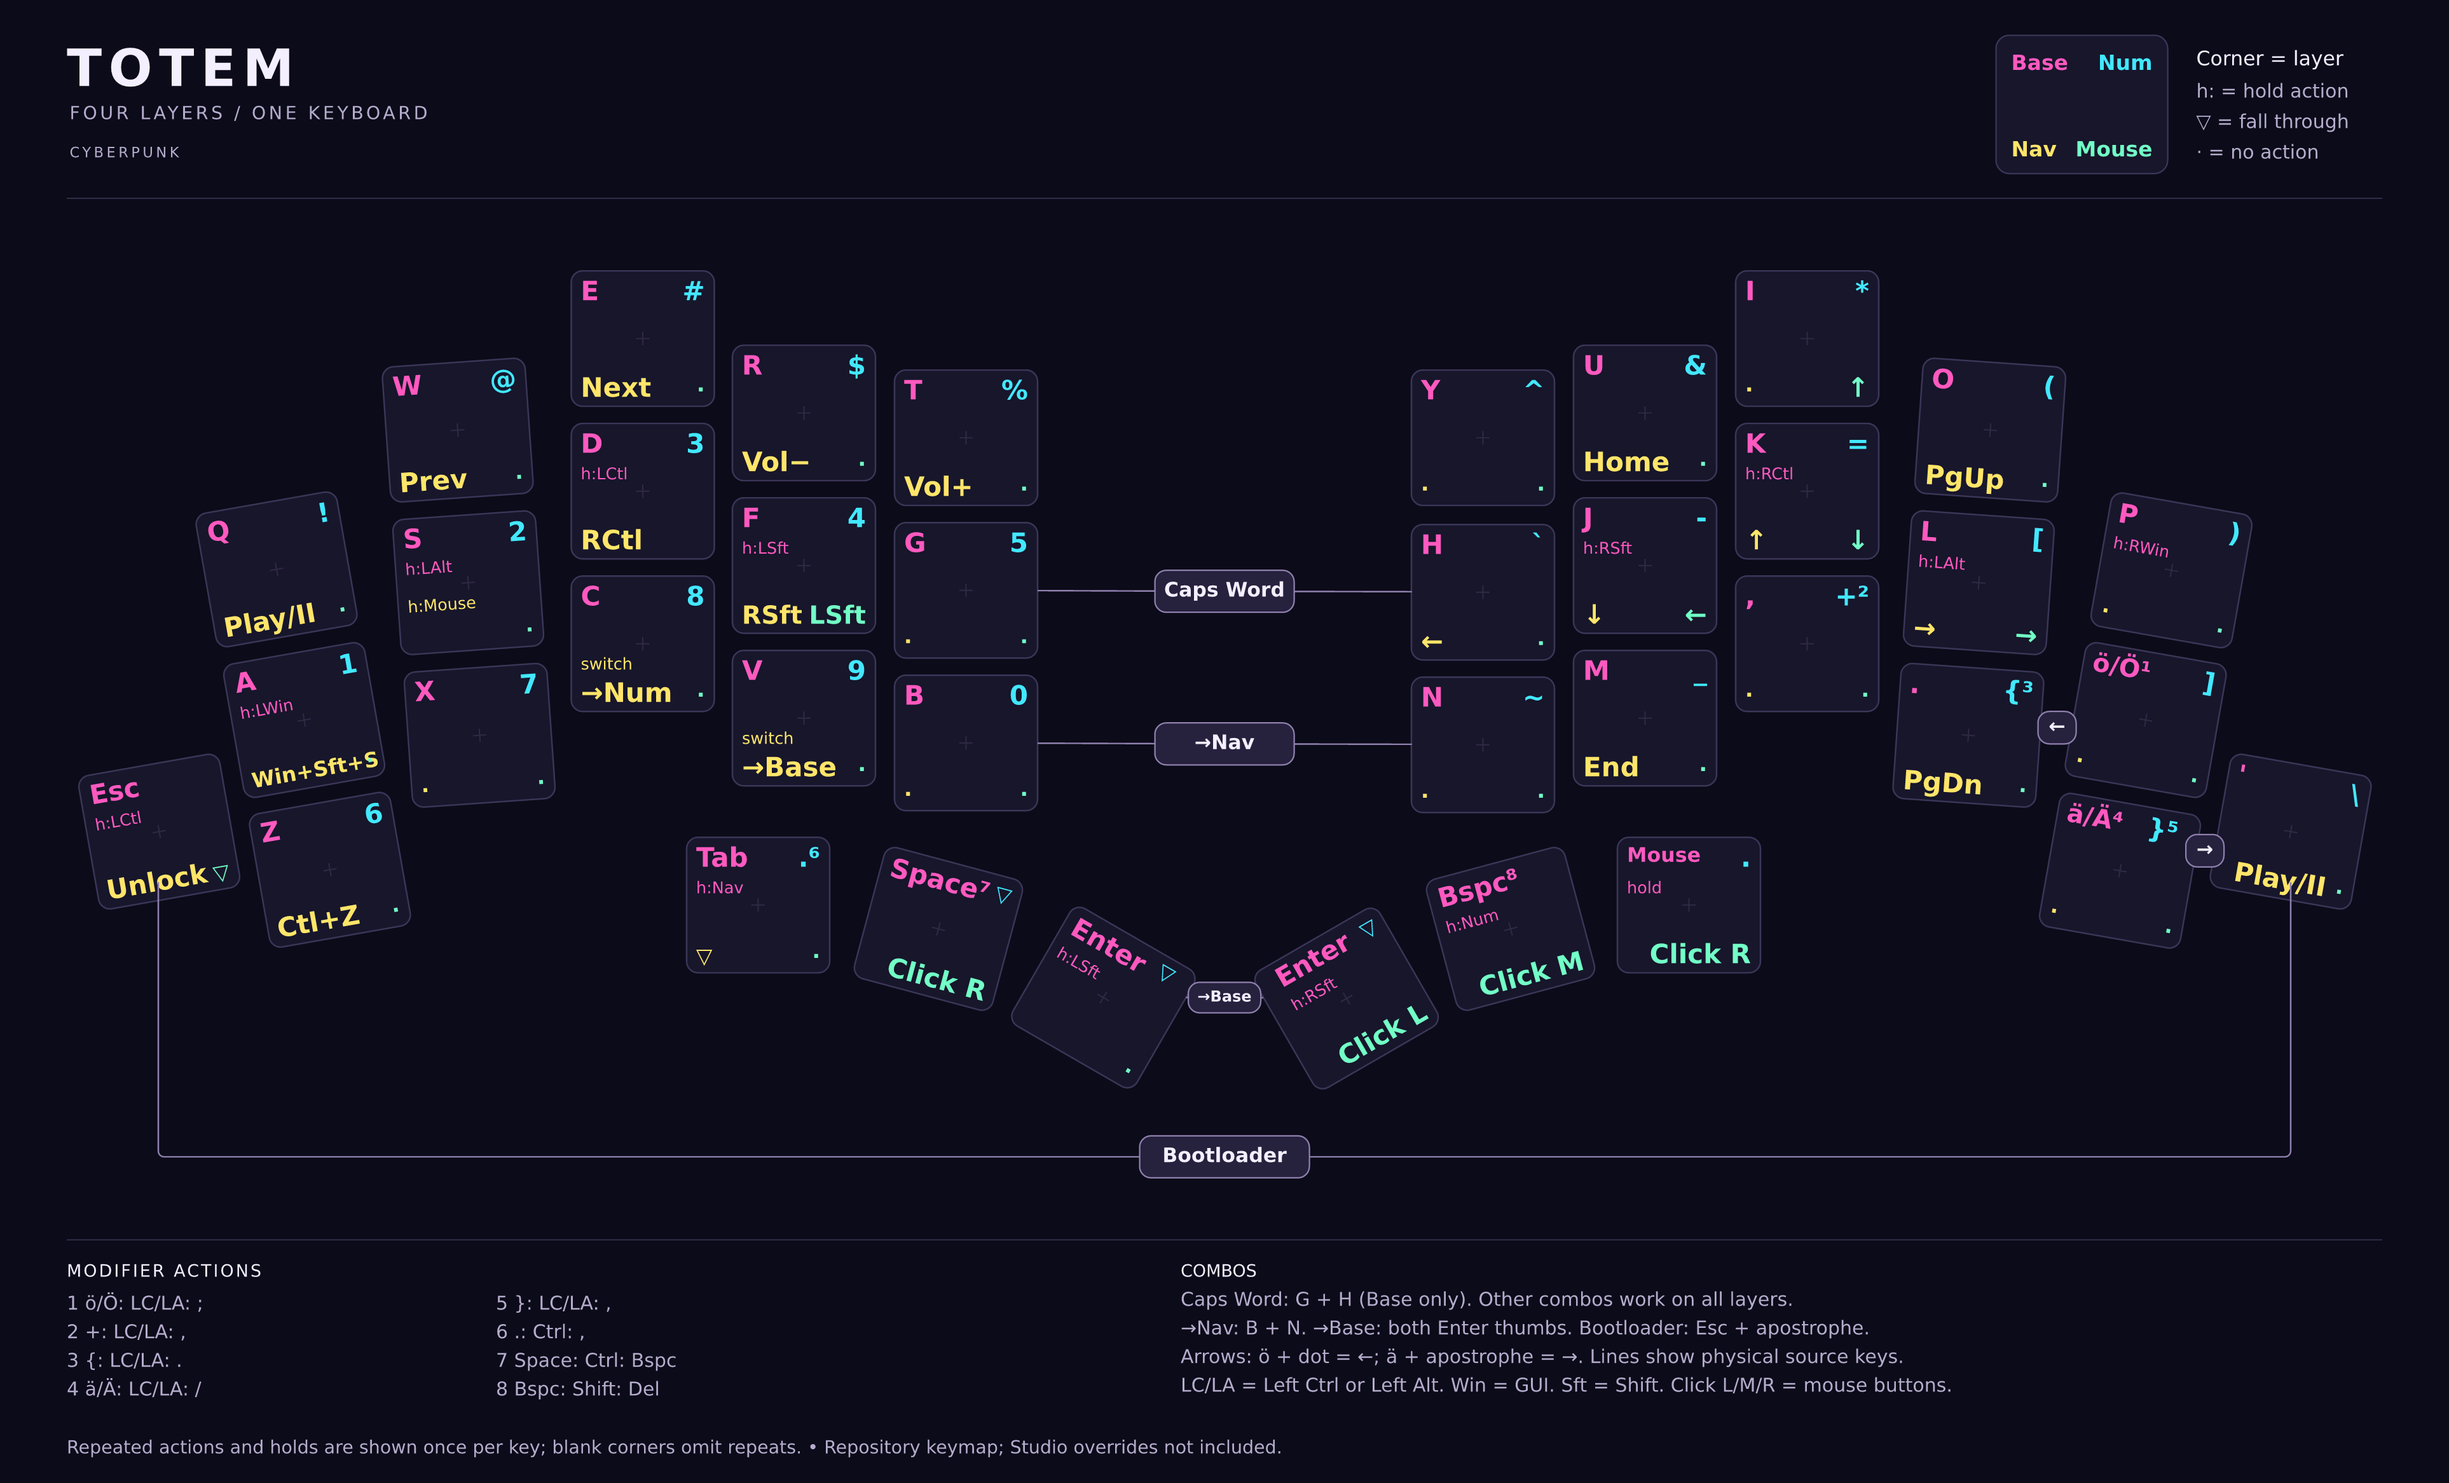
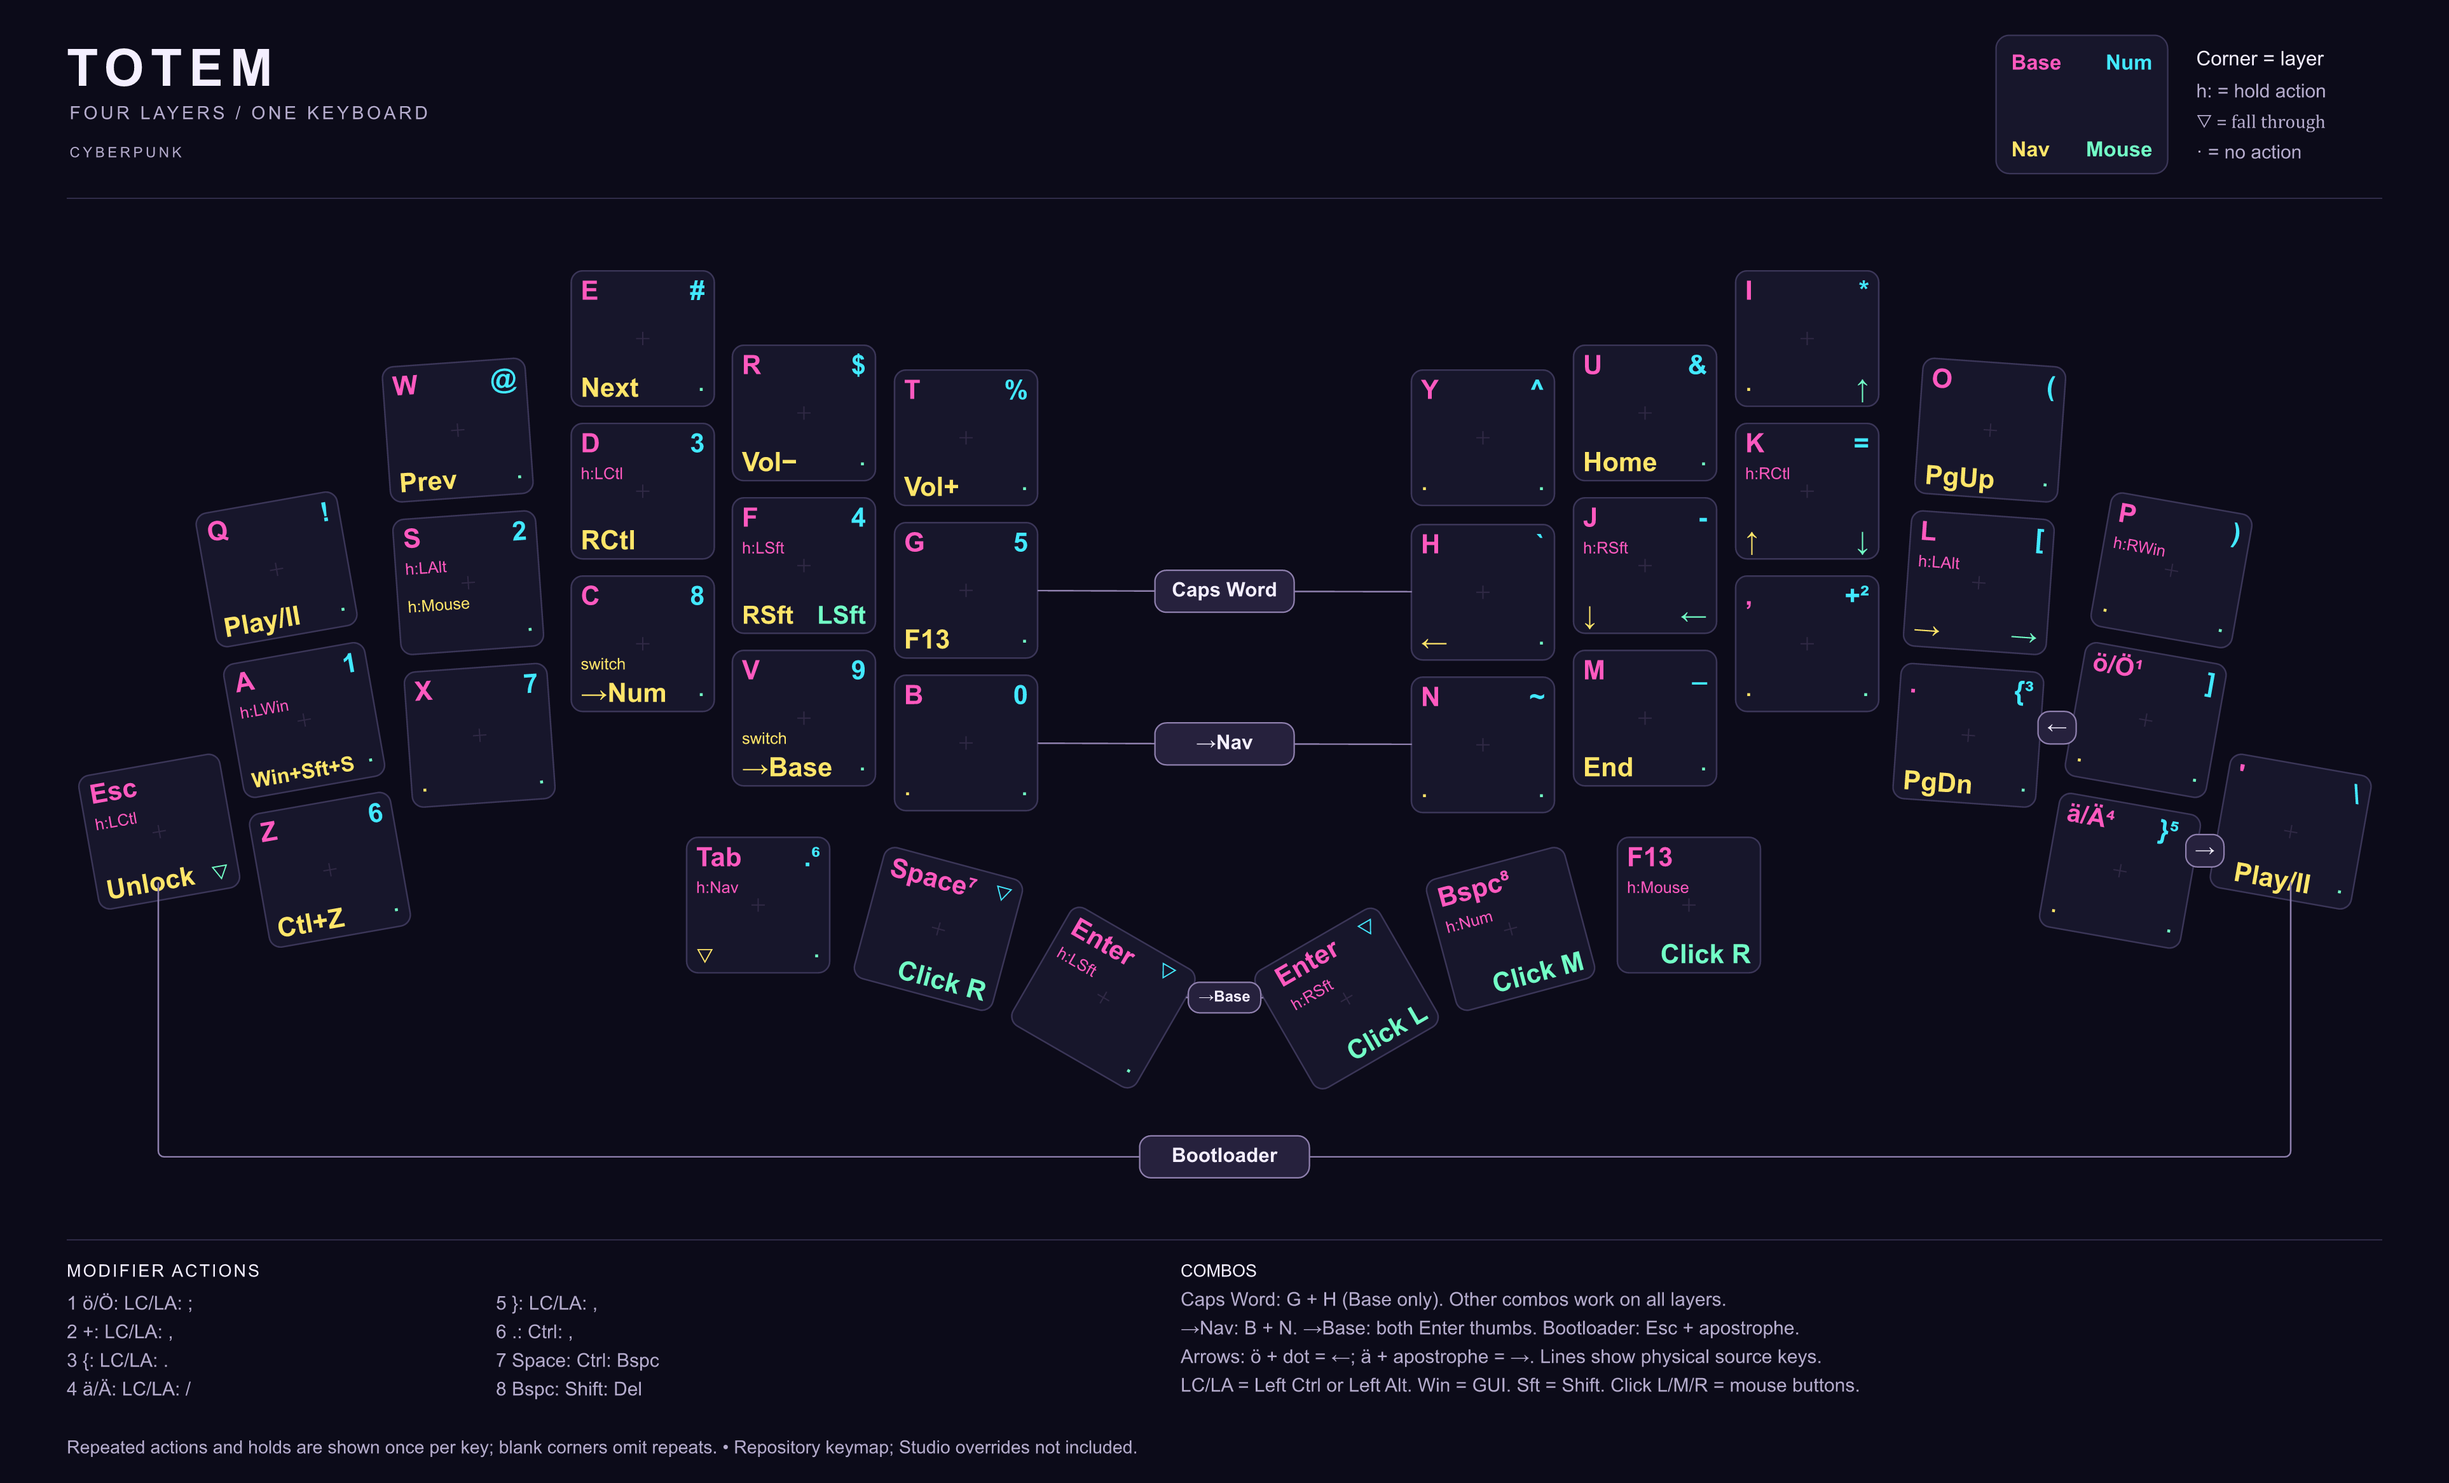
Add F13 taps to Mouse thumb and Nav G

diff --git a/README.md b/README.md
@@ -76,7 +76,7 @@ Edit `config/totem.keymap`. The shield default includes that same file, so there
 - OS-key hold-taps: tap-preferred, 280 ms prior idle, 450 ms tapping term, 175 ms quick tap; includes GUI/1 on Num.
 - Other home-row hold-taps: balanced, 130 ms prior idle, 280 ms tapping term, 175 ms quick tap.
 - Opposite-hand and thumb positional triggers are retained, including the corrected Q position.
-- Outer right thumb holds Mouse momentarily. Right-click is also available on the left Space thumb while Mouse is active.
+- Outer right thumb taps F13 and holds Mouse on Base and Num using the standard layer-tap (tap-preferred, 200 ms; quick-tap and prior-idle overrides disabled). On Nav, that thumb and the physical G key both send plain F13. Mouse-layer bindings are unchanged: the outer right thumb remains right-click. Right-click is also available on the left Space thumb while Mouse is active.
 - On Num, the left Dot/Nav thumb taps `.` normally or `,` with either Ctrl held; Ctrl is suppressed for that comma. Holding still activates Nav (tap-preferred, 200 ms), including while Ctrl is held. Space and Enter remain on the other left thumbs.
 - Other modifier morphs, combos, Shift/Enter thumbs, Tab/Nav, and Backspace/Num behavior are preserved.
 - Unicode ä/ö still uses WinCompose with Right Alt as the compose key. Keep the host's US layout and existing WinCompose setup.
